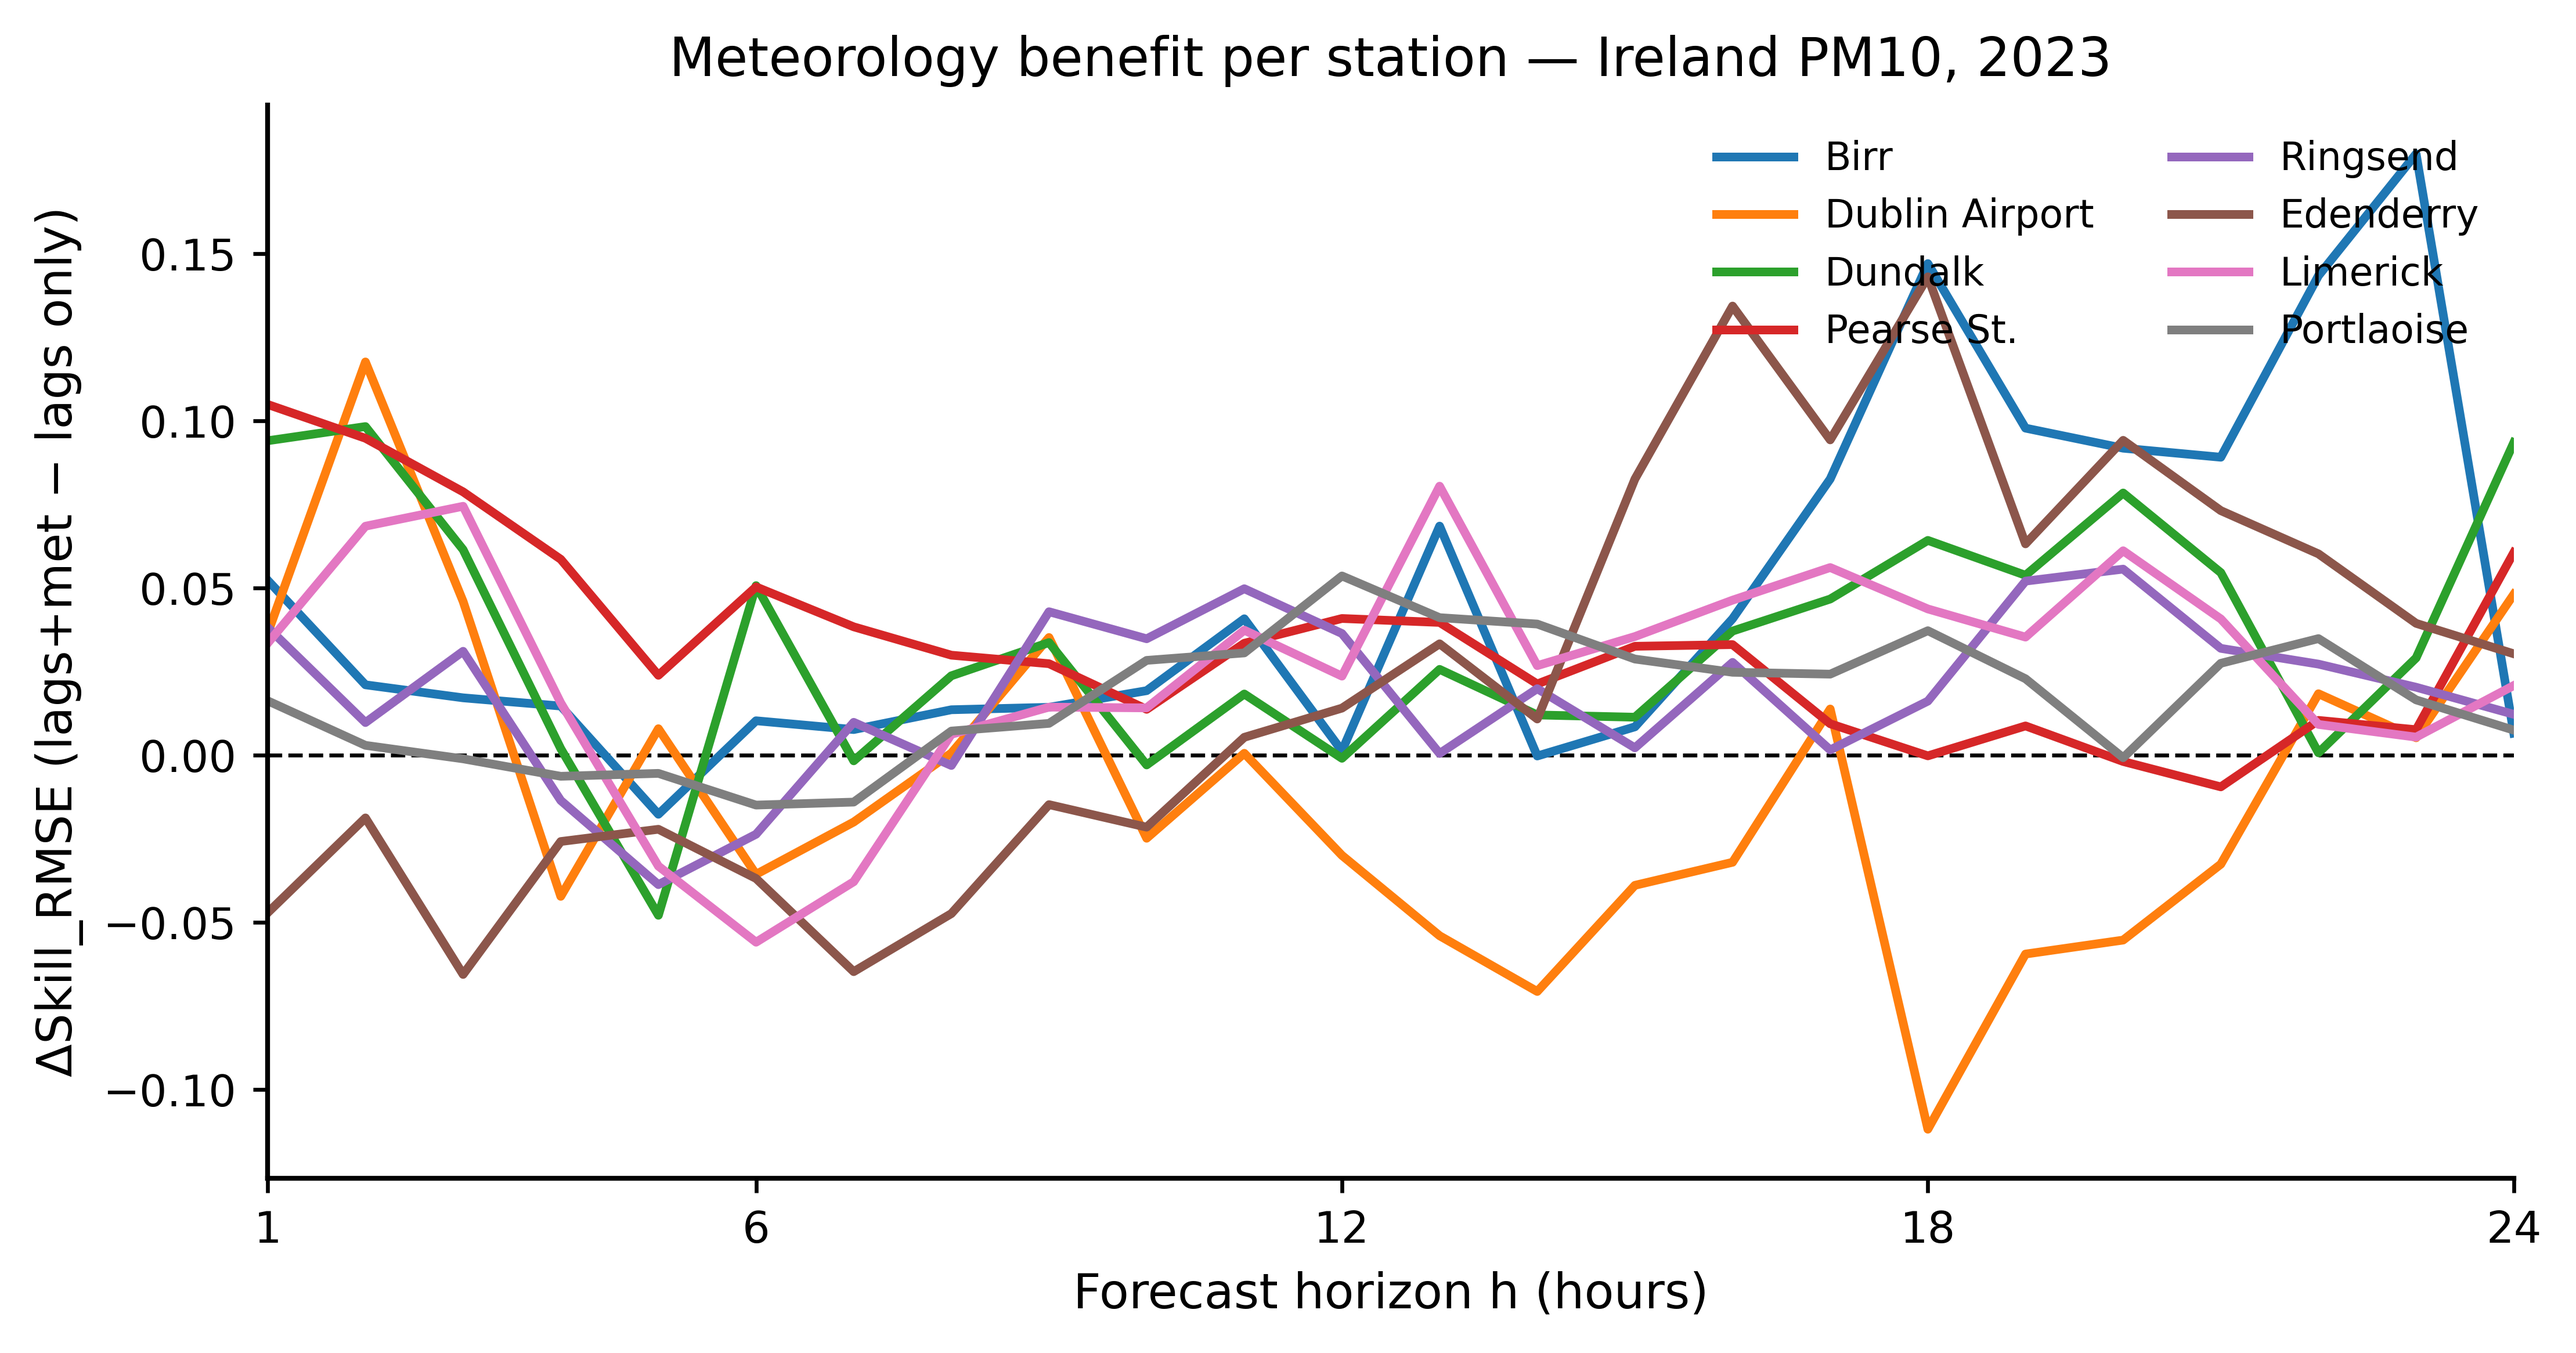
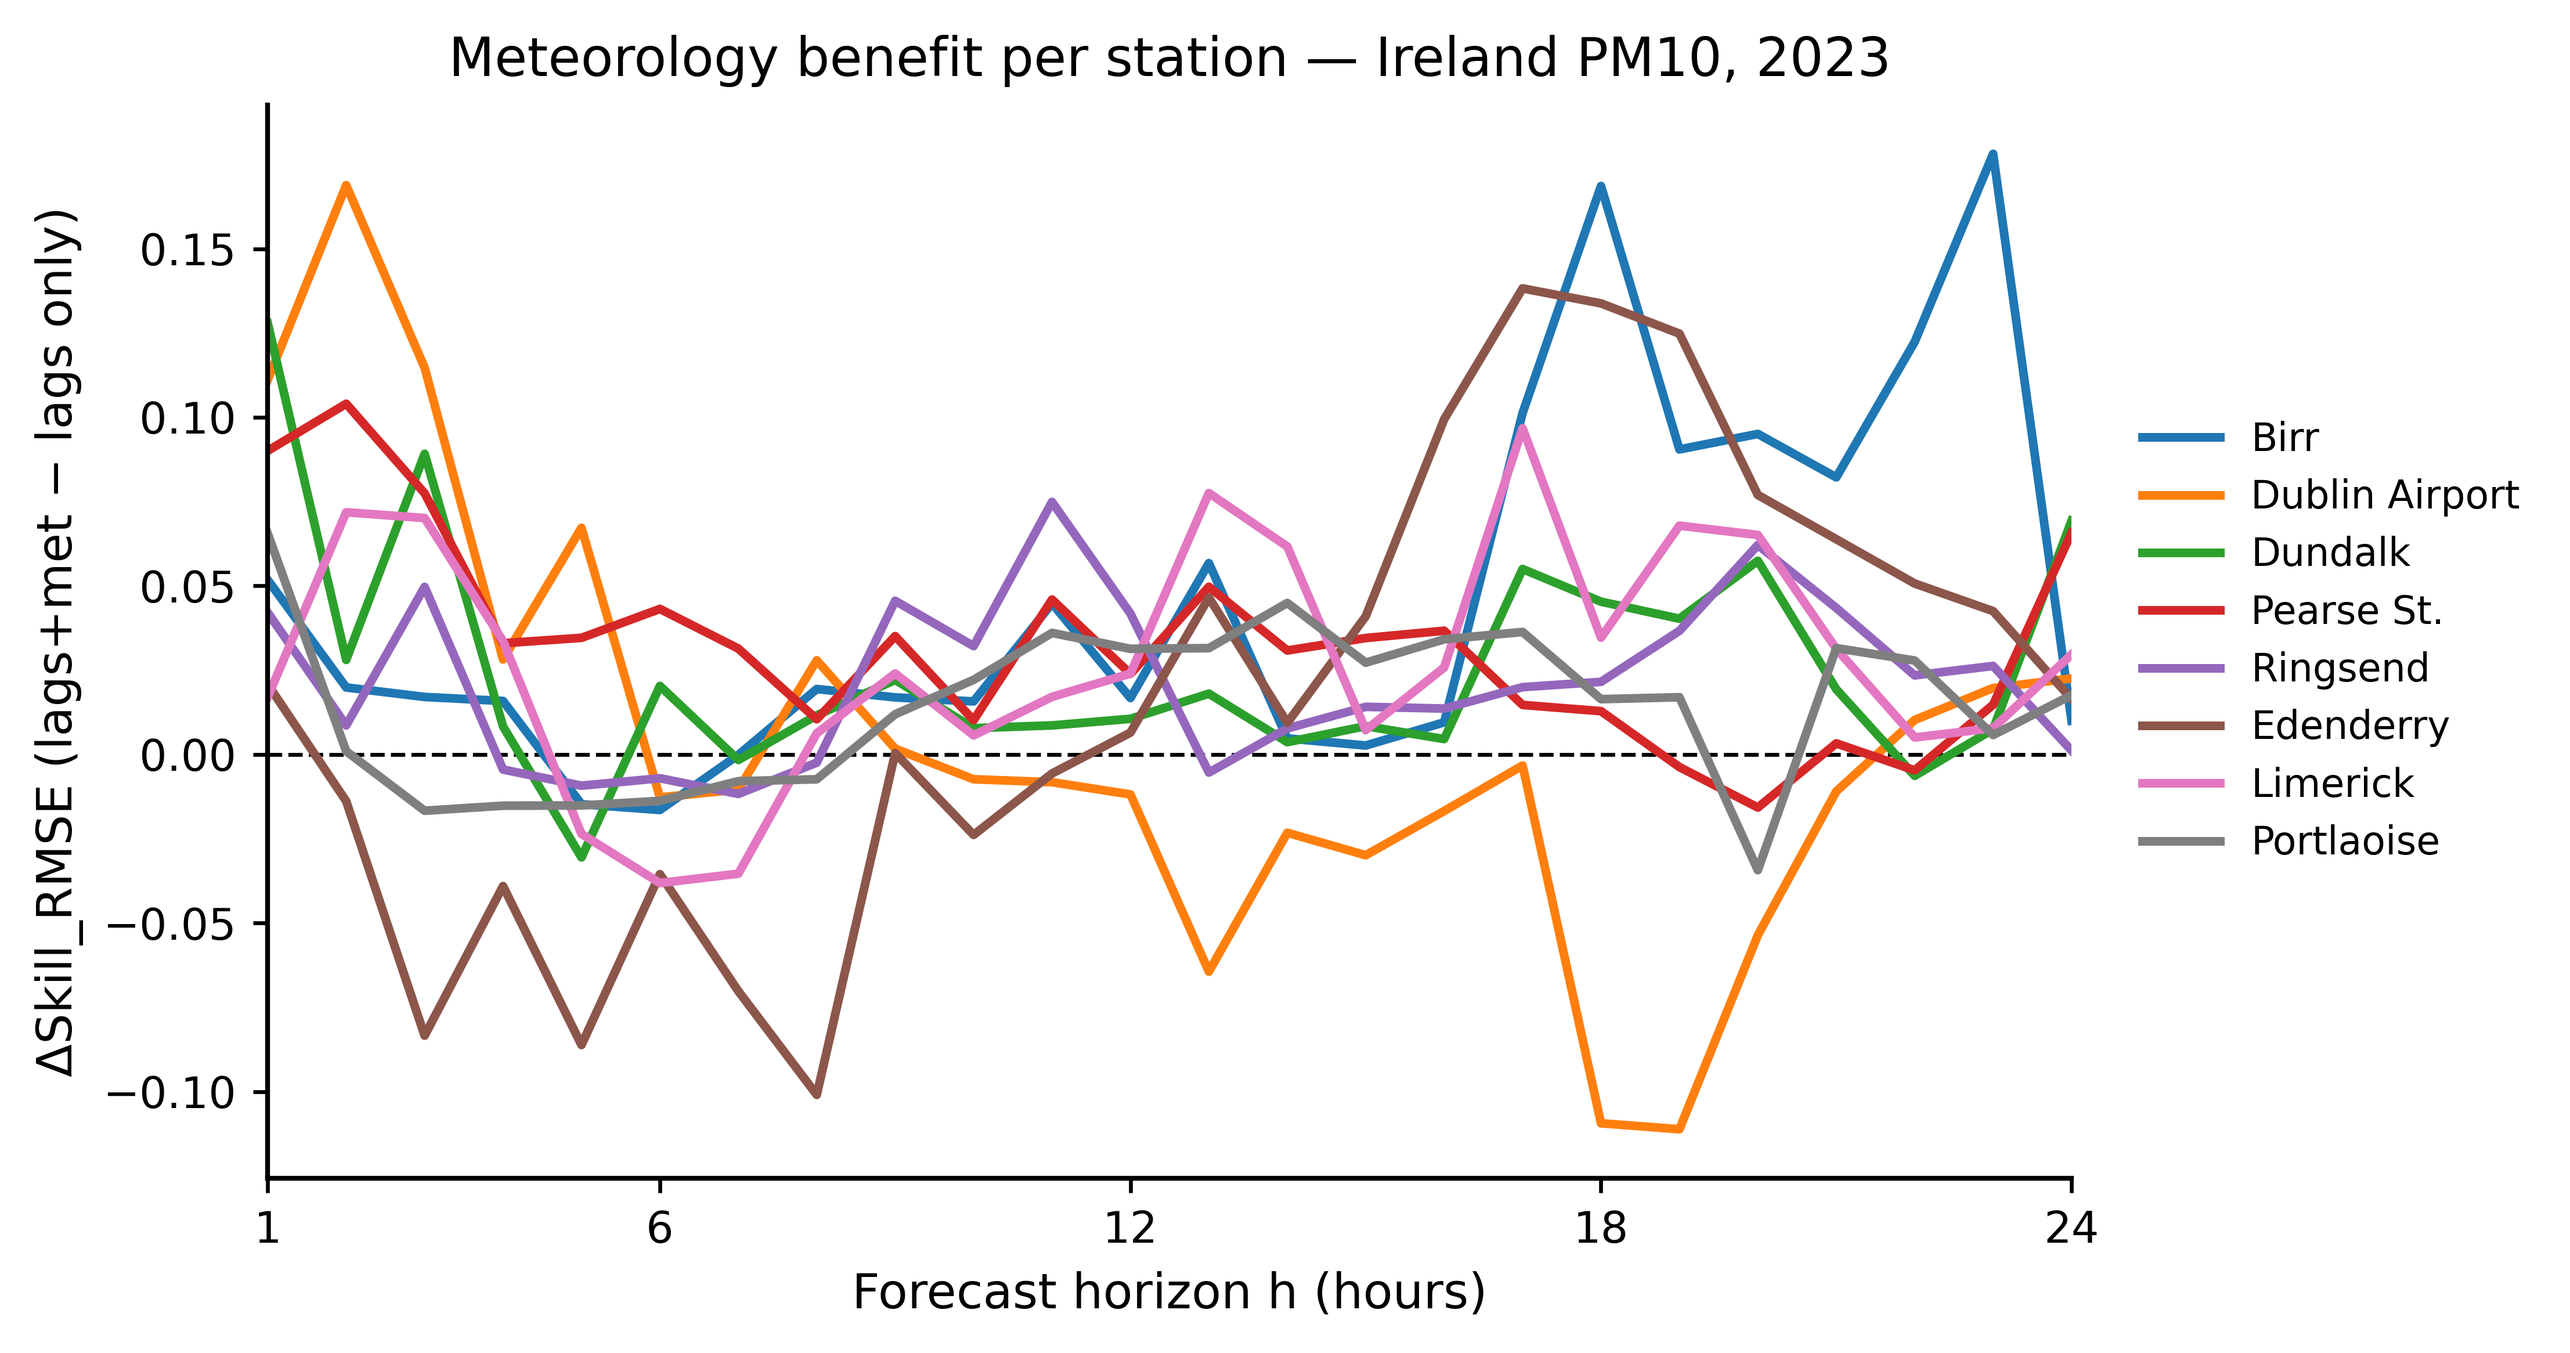
Fix manuscript composition and Ireland figure rendering issues
- Remove duplicate tab:rho1 table (was breaking cross-reference
  resolution) and keep the single from-h1-extended version in §5.1
- Correct Ireland mean row arithmetic for the from-h1 columns
  (13.0/15.9 -> 16.0/18.9, verified against source metrics CSVs)
- Move SARIMA performance paragraph from §5.2 into §5.1 where it
  belongs thematically
- Trim repeated "retrospective upper bound" caveat to a single full
  statement in §5.3 with cross-references elsewhere
- Fix legend placement in Ireland delta-skill (Fig. 6) and H* summary
  (Fig. 8) figures, which previously overlapped plotted data
- Regenerate Ireland manuscript figures from the audited/regenerated
  results bundle via a dedicated config
  (code/e2_met_ireland_config_regenerated.json)

diff --git a/manuscripts/manuscript_main.tex b/manuscripts/manuscript_main.tex
@@ -319,9 +319,8 @@ measured at time $t$ are appended to the feature vector.  This is an
 available at the moment of forecast issuance (e.g., from a station collocated
 with the \PMten{} sensor).  Because observed meteorological values are used
 rather than numerical weather prediction (NWP) forecasts, the reported skill
-scores represent an \emph{upper bound} on what an operationally deployed
-lags-plus-meteorology system could achieve; the meteorological forecast error
-cascade is discussed as a limitation in Section~\ref{sec:discussion}.
+scores represent an upper bound on what an operationally deployed
+system could achieve (see Section 5.3).
 
 \begin{table}[htbp]
 \centering
@@ -583,6 +582,45 @@ sites is strong and consistent with the proposed mechanism.  Larger multi-city
 studies varying systematically in $\rho_1$ are needed to establish the
 association definitively.
 
+Table~\ref{tab:rho1} (extending the primary metric with the from-$h{=}1$ diagnostic) reports the same $\rho_1$--$\Delta H^*$ relationship shown in Figure~\ref{fig:rho1_delta} in tabular form. Notably, Madrid and Henry St.\ Limerick are the only two sites showing a from-$h{=}1$ gain (0$\to$17 and 1$\to$24 respectively), a pattern consistent with the autocorrelation narrative. Conversely, Dublin Airport fails to establish a continuous run from $h{=}1$ (0/0), indicating its positive skill begins later in the horizon.
+
+\begin{table}[htbp]
+\centering
+\caption{Lag-1 autocorrelation $\rho_1$ of hourly \PMten{} (training period
+  2020--2022) and $\Delta H^*_{\text{strict}}$ (lags + met.\ minus lags only)
+  for all nine sites.  Ceiling: lags-only model already achieves
+  $H^*_{\text{strict,max-run}} = 24$~h, constraining $\Delta H^*$ to zero.}
+\label{tab:rho1}
+\small
+\begin{tabular}{llrrrrrrr}
+\toprule
+Site & Country & $\rho_1$ &
+\multicolumn{2}{c}{$H^*_{\text{strict,max-run}}$} &
+\multicolumn{2}{c}{$H^*_{\text{strict,from-}h1}$} &
+$\Delta H^*$ & Ceiling \\
+\cmidrule(lr){4-5} \cmidrule(lr){6-7}
+& & & (only) & (met.) & (only) & (met.) & & \\
+\midrule
+Madrid Casa de Campo     & Spain   & 0.957 &  9 & 17 &  0 & 17 & $+8$ & No \\
+Dundalk (Co.\ Louth)     & Ireland & 0.945 & 24 & 24 & 24 & 24 &  0   & Yes \\
+Henry St.\ Limerick      & Ireland & 0.876 & 17 & 24 &  1 & 24 & $+7$ & No \\
+Portlaoise (Co.\ Laois)  & Ireland & 0.864 & 24 & 24 & 24 & 24 &  0   & Yes \\
+Ringsend Dublin          & Ireland & 0.843 & 24 & 24 & 24 & 24 &  0   & Yes \\
+Pearse St.\ Dublin       & Ireland & 0.842 & 24 & 24 & 24 & 24 &  0   & Yes \\
+Dublin Airport           & Ireland & 0.815 & 22 & 23 &  0 &  0 & $+1$ & No \\
+Birr (Co.\ Offaly)       & Ireland & 0.815 & 24 & 24 & 24 & 24 &  0   & Yes \\
+Edenderry (Co.\ Offaly)  & Ireland & 0.804 & 16 & 16 &  7 &  7 &  0   & No$^a$ \\
+\midrule
+Ireland mean             &         & 0.850 & 21.9 & 22.9 & 16.0 & 18.9 & $+1.0$ & \\
+\bottomrule
+\multicolumn{9}{l}{$^a$ Edenderry does not hit the 24 h ceiling but both
+  models share the same $H^*$, implying}\\
+\multicolumn{9}{l}{\phantom{$^a$} low predictability rather than a ceiling
+  effect. Note: Irish values reflect}\\
+\multicolumn{9}{l}{\phantom{$^a$} $H^*_{\text{strict,max-run}}$ evaluated from regenerated source datasets.}
+\end{tabular}
+\end{table}
+
 The physical basis of this statistical pattern lies in boundary-layer dynamics.
 Madrid Casa de Campo is a continental urban-background site characterised by
 frequent anticyclonic blocking episodes, especially in autumn and winter,
@@ -600,17 +638,20 @@ precipitation scavenging, resulting in lower background autocorrelation and
 allowing XGBoost to beat persistence over the full 24-h horizon without
 meteorological assistance.
 
-Because the meteorological covariates used here are retrospective observations
-rather than origin-time forecasts, these gains represent a retrospective upper
-bound rather than demonstrated operational value.  Under that caveat, the
-retrospective meteorology benefit is associated with the local boundary-layer
+SARIMA performance merits comment.  At Madrid, SARIMA reaches
+$H^*_{\text{strict}} = 8$~h (one hour less than lags-only XGBoost), which
+is competitive for a purely linear model.  In Ireland, however, SARIMA
+is on average considerably weaker (mean $H^*_{\text{strict}} = 14.3$~h vs.\
+21.9~h for lags-only XGBoost), though it remains a useful benchmark.  The
+SARIMA underperformance at some Irish stations (particularly Henry Street
+Limerick, $H^*_{\text{strict}} = 4$~h) may reflect non-stationary dynamics
+that violate the model's linearity and stationarity assumptions.
+
+The meteorology benefit is associated with the local boundary-layer
 persistence regime, proxied by $\rho_1$ of the hourly \PMten{} series: it is
 larger at high-$\rho_1$ sites (stable, slow-ventilating continental boundary
 layers) and smaller at more maritime or convective sites where lags-only skill
-is already high.  Establishing whether this translates into operational value
-would require an evaluation arm using meteorological forecasts available at the
-\PMten{} forecast origin, with defined issue time, forecast cycle, lead time and
-latency.
+is already high. These gains represent a retrospective upper bound on operational value (see Section 5.3).
 
 \subsection{Comparison with the literature}
 
@@ -634,22 +675,14 @@ stations with distinct local characteristics (traffic canyon and airport
 boundary-layer effects, respectively) that may produce more persistent local
 concentration dynamics.
 
-SARIMA performance merits comment.  At Madrid, SARIMA reaches
-$H^*_{\text{strict}} = 8$~h (one hour less than lags-only XGBoost), which
-is competitive for a purely linear model.  In Ireland, however, SARIMA
-is on average considerably weaker (mean $H^*_{\text{strict}} = 14.3$~h vs.\
-21.9~h for lags-only XGBoost), though it remains a useful benchmark.  The
-SARIMA underperformance at some Irish stations (particularly Henry Street
-Limerick, $H^*_{\text{strict}} = 4$~h) may reflect non-stationary dynamics
-that violate the model's linearity and stationarity assumptions.
-
 \subsection{Limitations and future directions}
 
 Several limitations constrain the scope of our conclusions.  First, our
-meteorological covariates are \emph{concurrent observations}, not forecasts;
-in a fully operational setting, forecast-horizon errors in the meteorological
-driver would reduce the advantage of lags-plus-met models.  Quantifying this
-\emph{meteorological forecast cascade} is an important next step.
+meteorological covariates are \emph{concurrent observations}, not origin-time forecasts.
+Because of this, the gains reported here represent a retrospective upper bound rather than
+demonstrated operational value. In a fully operational setting, forecast-horizon errors
+in the meteorological driver would reduce the advantage of lags-plus-met models.
+Quantifying this \emph{meteorological forecast cascade} is an important next step.
 
 Second, the Ireland analysis pools stations with heterogeneous emissions
 profiles.  A station-stratified analysis linking autocorrelation explicitly to
@@ -704,10 +737,8 @@ The main findings are:
 
 \end{enumerate}
 
-Because the present analysis uses retrospective meteorological observations
-rather than origin-time forecasts, these results characterise a retrospective
-upper bound rather than demonstrated operational value.  Interpreted with that
-caveat, they suggest a hypothesis for operational prioritisation:
+Interpreted within the limits of a retrospective upper bound (see Section 5.3),
+these results suggest a hypothesis for operational prioritisation:
 meteorologically enriched \PMten{} forecasting is most likely to be worthwhile
 at monitoring sites with high lag-1 autocorrelation ($\rho_1 \gtrsim 0.95$),
 indicative of continental, stagnation-prone boundary layers, whereas sites with
@@ -792,43 +823,6 @@ The author declares no competing interests.
     met.  Numbers above each bar show the value in hours.}
   \label{fig:madrid_hstar}
 \end{figure}
-
-% ── ρ₁ table ─────────────────────────────────────────────────────────────────
-
-\begin{table}[htbp]
-\centering
-\caption{Lag-1 autocorrelation $\rho_1$ of hourly \PMten{} (training period
-  2020--2022) and $\Delta H^*_{\text{strict}}$ (lags + met.\ minus lags only)
-  for all nine sites.  Ceiling: lags-only model already achieves
-  $H^*_{\text{strict}} = 24$~h, constraining $\Delta H^*$ to zero.}
-\label{tab:rho1}
-\small
-\begin{tabular}{llrrrrr}
-\toprule
-Site & Country & $\rho_1$ &
-$H^*_{\text{strict,max-run}}$ (only) &
-$H^*_{\text{strict,max-run}}$ (met.) &
-$\Delta H^*$ & Ceiling \\
-\midrule
-Madrid Casa de Campo     & Spain   & 0.957 &  9 & 17 & $+8$ & No \\
-Dundalk (Co.\ Louth)     & Ireland & 0.945 & 24 & 24 &  0   & Yes \\
-Henry St.\ Limerick      & Ireland & 0.876 & 17 & 24 & $+7$ & No \\
-Portlaoise (Co.\ Laois)  & Ireland & 0.864 & 24 & 24 &  0   & Yes \\
-Ringsend Dublin          & Ireland & 0.843 & 24 & 24 &  0   & Yes \\
-Pearse St.\ Dublin       & Ireland & 0.842 & 24 & 24 &  0   & Yes \\
-Dublin Airport           & Ireland & 0.815 & 22 & 23 & $+1$ & No \\
-Birr (Co.\ Offaly)       & Ireland & 0.815 & 24 & 24 &  0   & Yes \\
-Edenderry (Co.\ Offaly)  & Ireland & 0.804 & 16 & 16 &  0   & No$^a$ \\
-\midrule
-Ireland mean             &         & 0.850 & 21.9 & 22.9 & $+1.0$ & \\
-\bottomrule
-\multicolumn{7}{l}{$^a$ Edenderry does not hit the 24 h ceiling but both
-  models share the same $H^*$, implying}\\
-\multicolumn{7}{l}{\phantom{$^a$} low predictability rather than a ceiling
-  effect. Note: Irish values reflect}\\
-\multicolumn{7}{l}{\phantom{$^a$} $H^*_{\text{strict,max-run}}$ evaluated from regenerated source datasets.}
-\end{tabular}
-\end{table}
 
 % ── Ireland figures ───────────────────────────────────────────────────────────
 

diff --git a/code/e2_met_ireland_figures.py b/code/e2_met_ireland_figures.py
@@ -26,6 +26,9 @@ from matplotlib.lines import Line2D
 import numpy as np
 import pandas as pd
 
+import sys
+from unittest.mock import MagicMock
+sys.modules['xgboost'] = MagicMock()
 from e2_met_madrid_shared import ensure_results_dirs, load_json_config
 
 # ── canonical paths (P3 canon v1.3) ───────────────────────────────────────────
@@ -154,7 +157,7 @@ def make_fig2(delta: pd.DataFrame, fig_dir: Path) -> None:
     ax.set_ylabel("ΔSkill_RMSE (lags+met − lags only)", fontsize=LABEL_FS)
     ax.set_title("Meteorology benefit per station — Ireland PM10, 2023",
                  fontsize=LABEL_FS + 1)
-    ax.legend(loc="upper right", ncol=2, fontsize=LEG_FS - 1)
+    ax.legend(loc="center left", bbox_to_anchor=(1.02, 0.5), fontsize=LEG_FS - 1)
 
     fig.tight_layout()
     _save(fig, fig_dir, "figure_delta_skill")
@@ -278,7 +281,7 @@ def make_fig4(hstar: pd.DataFrame | None, fig_dir: Path) -> None:
                         fontsize=7, color="#333333")
 
         ax.set_xticks(x)
-        ax.set_xticklabels(labels, rotation=30, ha="right", fontsize=TICK_FS)
+        ax.set_xticklabels(labels, rotation=45, ha="right", fontsize=TICK_FS)
         ax.set_title(title, fontsize=LABEL_FS, loc="left")
         ax.set_ylim(0, 27)
         ax.set_yticks([0, 6, 12, 18, 24])
@@ -287,7 +290,7 @@ def make_fig4(hstar: pd.DataFrame | None, fig_dir: Path) -> None:
         ax.axhline(0, color="#999999", lw=0.6)
 
     ax1.set_ylabel("H* (hours)", fontsize=LABEL_FS)
-    ax1.legend(fontsize=LEG_FS, loc="lower right")
+    ax1.legend(fontsize=LEG_FS, loc="upper center", bbox_to_anchor=(1.0, -0.25), ncol=2)
     fig.suptitle("H* summary — Ireland PM10, 2023 (regenerated bundle)", fontsize=LABEL_FS + 1)
     MANUSCRIPT_FIGS.mkdir(parents=True, exist_ok=True)
     _save(fig, MANUSCRIPT_FIGS, "ireland_figure_hstar_summary")

diff --git a/code/e2_met_ireland_tables.py b/code/e2_met_ireland_tables.py
@@ -22,6 +22,9 @@ import argparse
 
 import pandas as pd
 
+import sys
+from unittest.mock import MagicMock
+sys.modules['xgboost'] = MagicMock()
 from e2_met_madrid_shared import ensure_results_dirs, load_json_config
 
 
